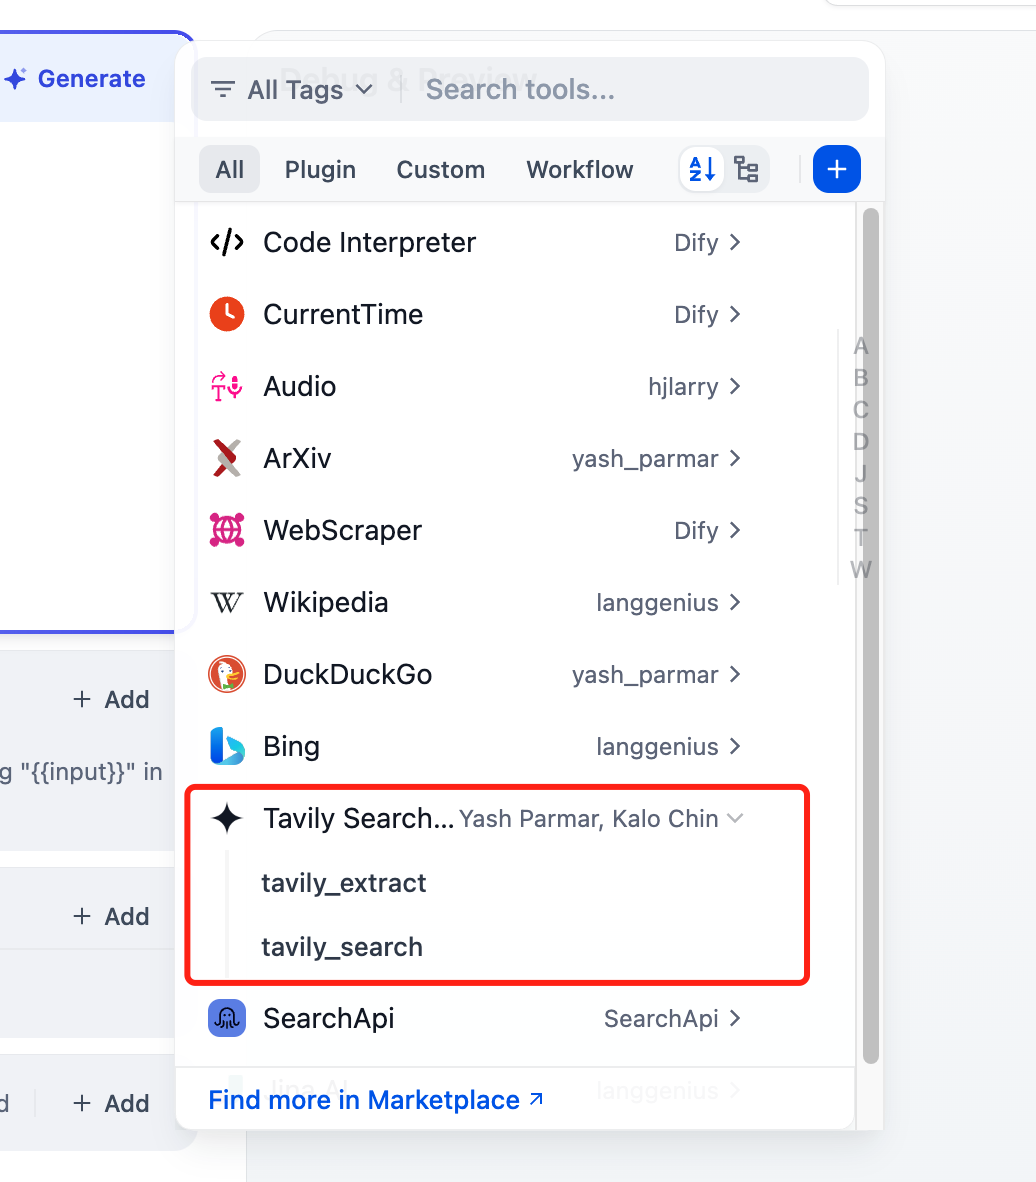
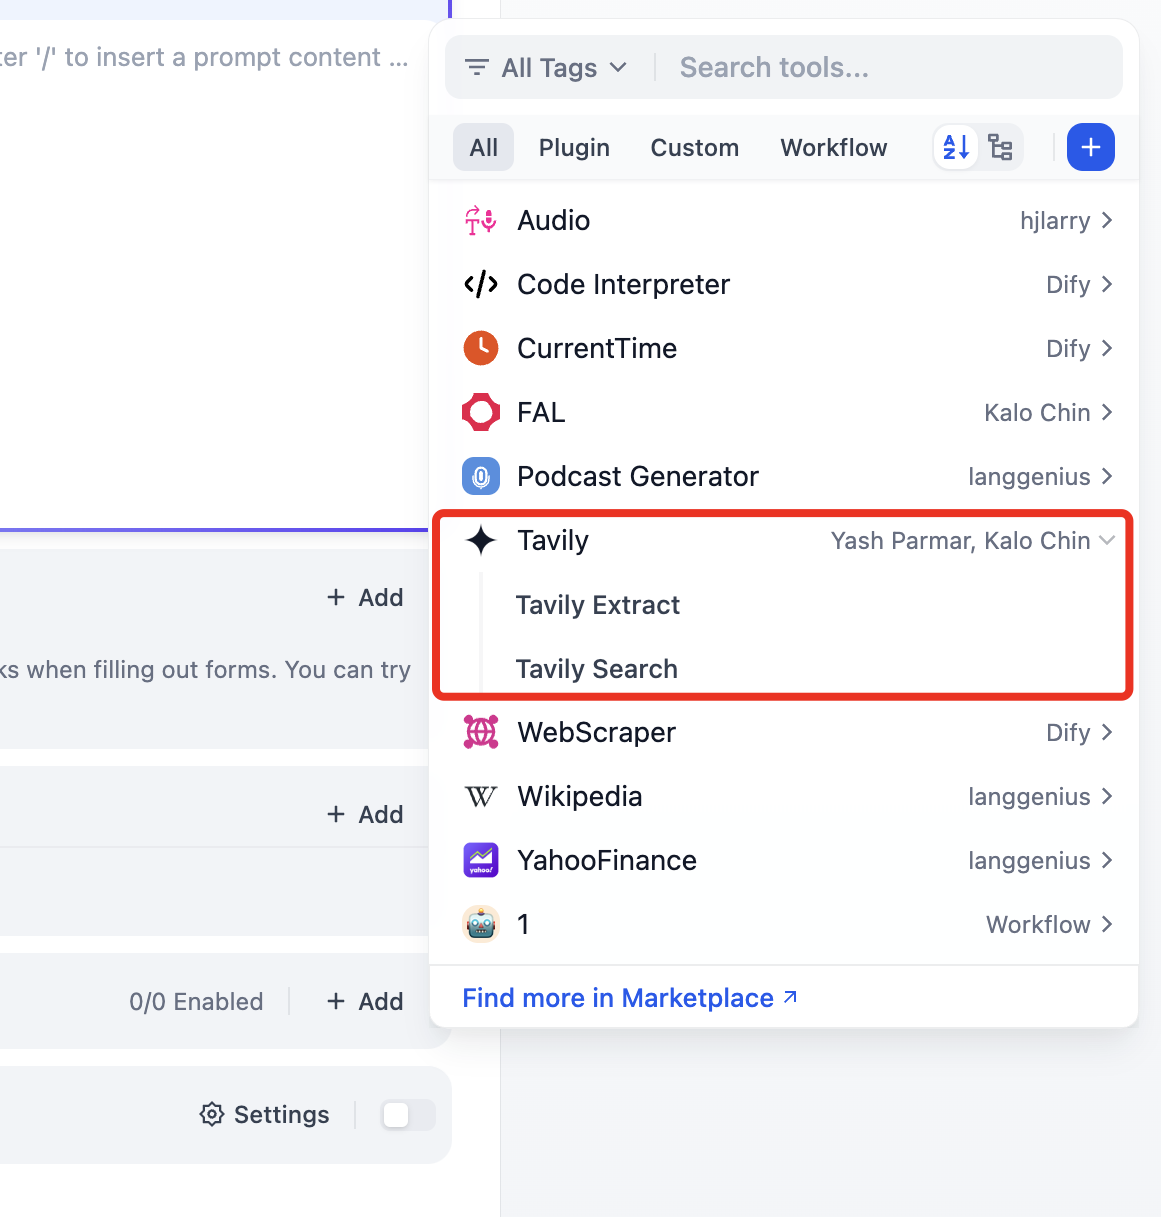
refractor(tavily): Update Tavily plugin with enhanced search and extr… (#410)
* refractor(tavily): Update Tavily plugin with enhanced search and extract features

- Simplified tool labels in manifest and provider YAML
- Updated requirements to latest dify_plugin version
- Improved Tavily Search and Extract tools with:
  * Bearer token authentication
  * More flexible parameter processing
  * Enhanced error handling
  * Additional search and extraction options
- Updated screenshots and bumped plugin version to 0.0.3

* refactor(tavily): Remove redundant comments in Tavily tools

- Cleaned up unnecessary inline comments in tavily_extract.py and tavily_search.py
- Simplified code readability by removing redundant explanatory comments
- Maintained existing functionality while improving code clarity

* refactor(tavily): Improve Tavily Extract tool with enhanced URL processing and documentation

- Updated URL parsing to handle comma-separated and empty URL inputs
- Added default values and more detailed descriptions for extraction parameters
- Improved error handling for URL validation
- Enhanced tool and method documentation with clearer explanations
- Updated YAML configuration to clarify parameter descriptions and add select options

diff --git a/tools/tavily/tools/tavily_extract.py b/tools/tavily/tools/tavily_extract.py
@@ -25,16 +25,27 @@ class TavilyExtract:
         Retrieves extracted content from the Tavily Extract API.
 
         Args:
-            params (Dict[str, Any]): The extraction parameters.
+            params (Dict[str, Any]): The extraction parameters, which may include:
+                - urls: Required. A string or list of URLs to extract content from.
+                - include_images: Optional boolean. Whether to include images in the response. Default is False.
+                - extract_depth: Optional string. The depth of extraction ('basic' or 'advanced'). Default is 'basic'.
+                  Advanced extraction retrieves more data but costs more credits and may increase latency.
 
         Returns:
-            dict: The extracted content.
-
+            dict: The extracted content with results.
         """
-        if "api_key" not in params:
-            params["api_key"] = self.api_key
         processed_params = self._process_params(params)
-        response = requests.post(f"{TAVILY_API_URL}/extract", json=processed_params)
+        
+        headers = {
+            "Authorization": f"Bearer {self.api_key}",
+            "Content-Type": "application/json"
+        }
+        
+        response = requests.post(
+            f"{TAVILY_API_URL}/extract", 
+            json=processed_params,
+            headers=headers
+        )
         response.raise_for_status()
         return response.json()
 
@@ -49,53 +60,79 @@ class TavilyExtract:
             dict: The processed parameters.
         """
         processed_params = {}
+        
         if "urls" in params:
             urls = params["urls"]
             if isinstance(urls, str):
-                processed_params["urls"] = [
-                    url.strip() for url in urls.replace(",", " ").split()
-                ]
+                url_list = [url.strip() for url in urls.split(',') if url.strip()]
+                processed_params["urls"] = url_list
             elif isinstance(urls, list):
                 processed_params["urls"] = urls
         else:
             raise ValueError("The 'urls' parameter is required.")
-        processed_params["api_key"] = params.get("api_key", self.api_key)
+        
+        if not processed_params.get("urls"):
+            raise ValueError("At least one valid URL must be provided.")
+        
+        if "include_images" in params:
+            processed_params["include_images"] = params["include_images"]
+            
+        if "extract_depth" in params:
+            extract_depth = params["extract_depth"]
+            if extract_depth not in ["basic", "advanced"]:
+                raise ValueError("extract_depth must be either 'basic' or 'advanced'")
+            processed_params["extract_depth"] = extract_depth
+            
         return processed_params
 
 
 class TavilyExtractTool(Tool):
     """
     A tool for extracting content from web pages using Tavily Extract.
+    
+    This tool extracts raw content from specified URLs, with options to include images
+    and control the depth of extraction. Advanced extraction retrieves more data but
+    costs more credits and may increase latency.
     """
 
     def _invoke(
         self, tool_parameters: dict[str, Any]
     ) -> Generator[ToolInvokeMessage, None, None]:
         """
-        Invokes the Tavily Extract tool with the given user ID and tool parameters.
+        Invokes the Tavily Extract tool with the given tool parameters.
 
         Args:
-            user_id (str): The ID of the user invoking the tool.
             tool_parameters (Dict[str, Any]): The parameters for the Tavily Extract tool.
+                - urls: Required. A comma-separated list of URLs to extract content from.
+                - include_images: Optional. Whether to include images in the response.
+                - extract_depth: Optional. The depth of extraction ('basic' or 'advanced').
 
-        Returns:
-            ToolInvokeMessage | list[ToolInvokeMessage]: The result of the Tavily Extract tool invocation.
+        Yields:
+            ToolInvokeMessage: The result of the Tavily Extract tool invocation.
         """
         urls = tool_parameters.get("urls", "")
         api_key = self.runtime.credentials.get("tavily_api_key")
+        
         if not api_key:
             yield self.create_text_message(
                 "Tavily API key is missing. Please set the 'tavily_api_key' in credentials."
             )
+            return
+            
         if not urls:
             yield self.create_text_message("Please input at least one URL to extract.")
+            return
+            
         tavily_extract = TavilyExtract(api_key)
+        
         try:
             raw_results = tavily_extract.extract_content(tool_parameters)
         except requests.HTTPError as e:
             yield self.create_text_message(
                 f"Error occurred while extracting content: {str(e)}"
             )
+            return
+            
         if not raw_results.get("results"):
             yield self.create_text_message(
                 "No content could be extracted from the provided URLs."
@@ -107,7 +144,7 @@ class TavilyExtractTool(Tool):
 
     def _format_results_as_text(self, raw_results: dict) -> str:
         """
-        Formats the raw extraction results into a markdown text based on user-selected parameters.
+        Formats the raw extraction results into a markdown text.
 
         Args:
             raw_results (dict): The raw extraction results.
@@ -121,11 +158,19 @@ class TavilyExtractTool(Tool):
             raw_content = result.get("raw_content", "")
             output_lines.append(f"## Extracted Content {idx}: {url}\n")
             output_lines.append(f"**Raw Content:**\n{raw_content}\n")
+            
+            if "images" in result and result["images"]:
+                output_lines.append("**Images:**\n")
+                for i, image_url in enumerate(result["images"], 1):
+                    output_lines.append(f"![Image {i} from {url}]({image_url})\n")
+                    
             output_lines.append("---\n")
+            
         if raw_results.get("failed_results"):
             output_lines.append("## Failed URLs:\n")
             for failed in raw_results["failed_results"]:
                 url = failed.get("url", "")
                 error = failed.get("error", "Unknown error")
                 output_lines.append(f"- {url}: {error}\n")
+ 
         return "\n".join(output_lines)

diff --git a/tools/tavily/tools/tavily_search.py b/tools/tavily/tools/tavily_search.py
@@ -31,9 +31,16 @@ class TavilySearch:
             dict: The raw search results.
 
         """
-        params["api_key"] = self.api_key
+        if "api_key" in params:
+            del params["api_key"]
+            
         processed_params = self._process_params(params)
-        response = requests.post(f"{TAVILY_API_URL}/search", json=processed_params)
+        
+        headers = {
+            "Authorization": f"Bearer {self.api_key}"
+        }
+        
+        response = requests.post(f"{TAVILY_API_URL}/search", json=processed_params, headers=headers)
         response.raise_for_status()
         return response.json()
 
@@ -49,7 +56,7 @@ class TavilySearch:
         """
         processed_params = {}
         for key, value in params.items():
-            if value is None or value == "None":
+            if value is None or value == "None" or value == "not_specified":
                 continue
             if key in ["include_domains", "exclude_domains"]:
                 if isinstance(value, str):
@@ -71,7 +78,7 @@ class TavilySearch:
                     processed_params[key] = int(value)
                 else:
                     processed_params[key] = value
-            elif key in ["search_depth", "topic", "query", "api_key"]:
+            elif key in ["search_depth", "topic", "query", "time_range"]:
                 processed_params[key] = value
             else:
                 pass

diff --git a/tools/tavily/provider/tavily.py b/tools/tavily/provider/tavily.py
@@ -9,14 +9,7 @@ class TavilyProvider(ToolProvider):
         try:
             TavilySearchTool.from_credentials(credentials, user_id="").invoke(
                 tool_parameters={
-                    "query": "Sachin Tendulkar",
-                    "search_depth": "basic",
-                    "include_answer": True,
-                    "include_images": False,
-                    "include_raw_content": False,
-                    "max_results": 5,
-                    "include_domains": "",
-                    "exclude_domains": "",
+                    "query": "Dify AI",
                 }
             )
         except Exception as e:
